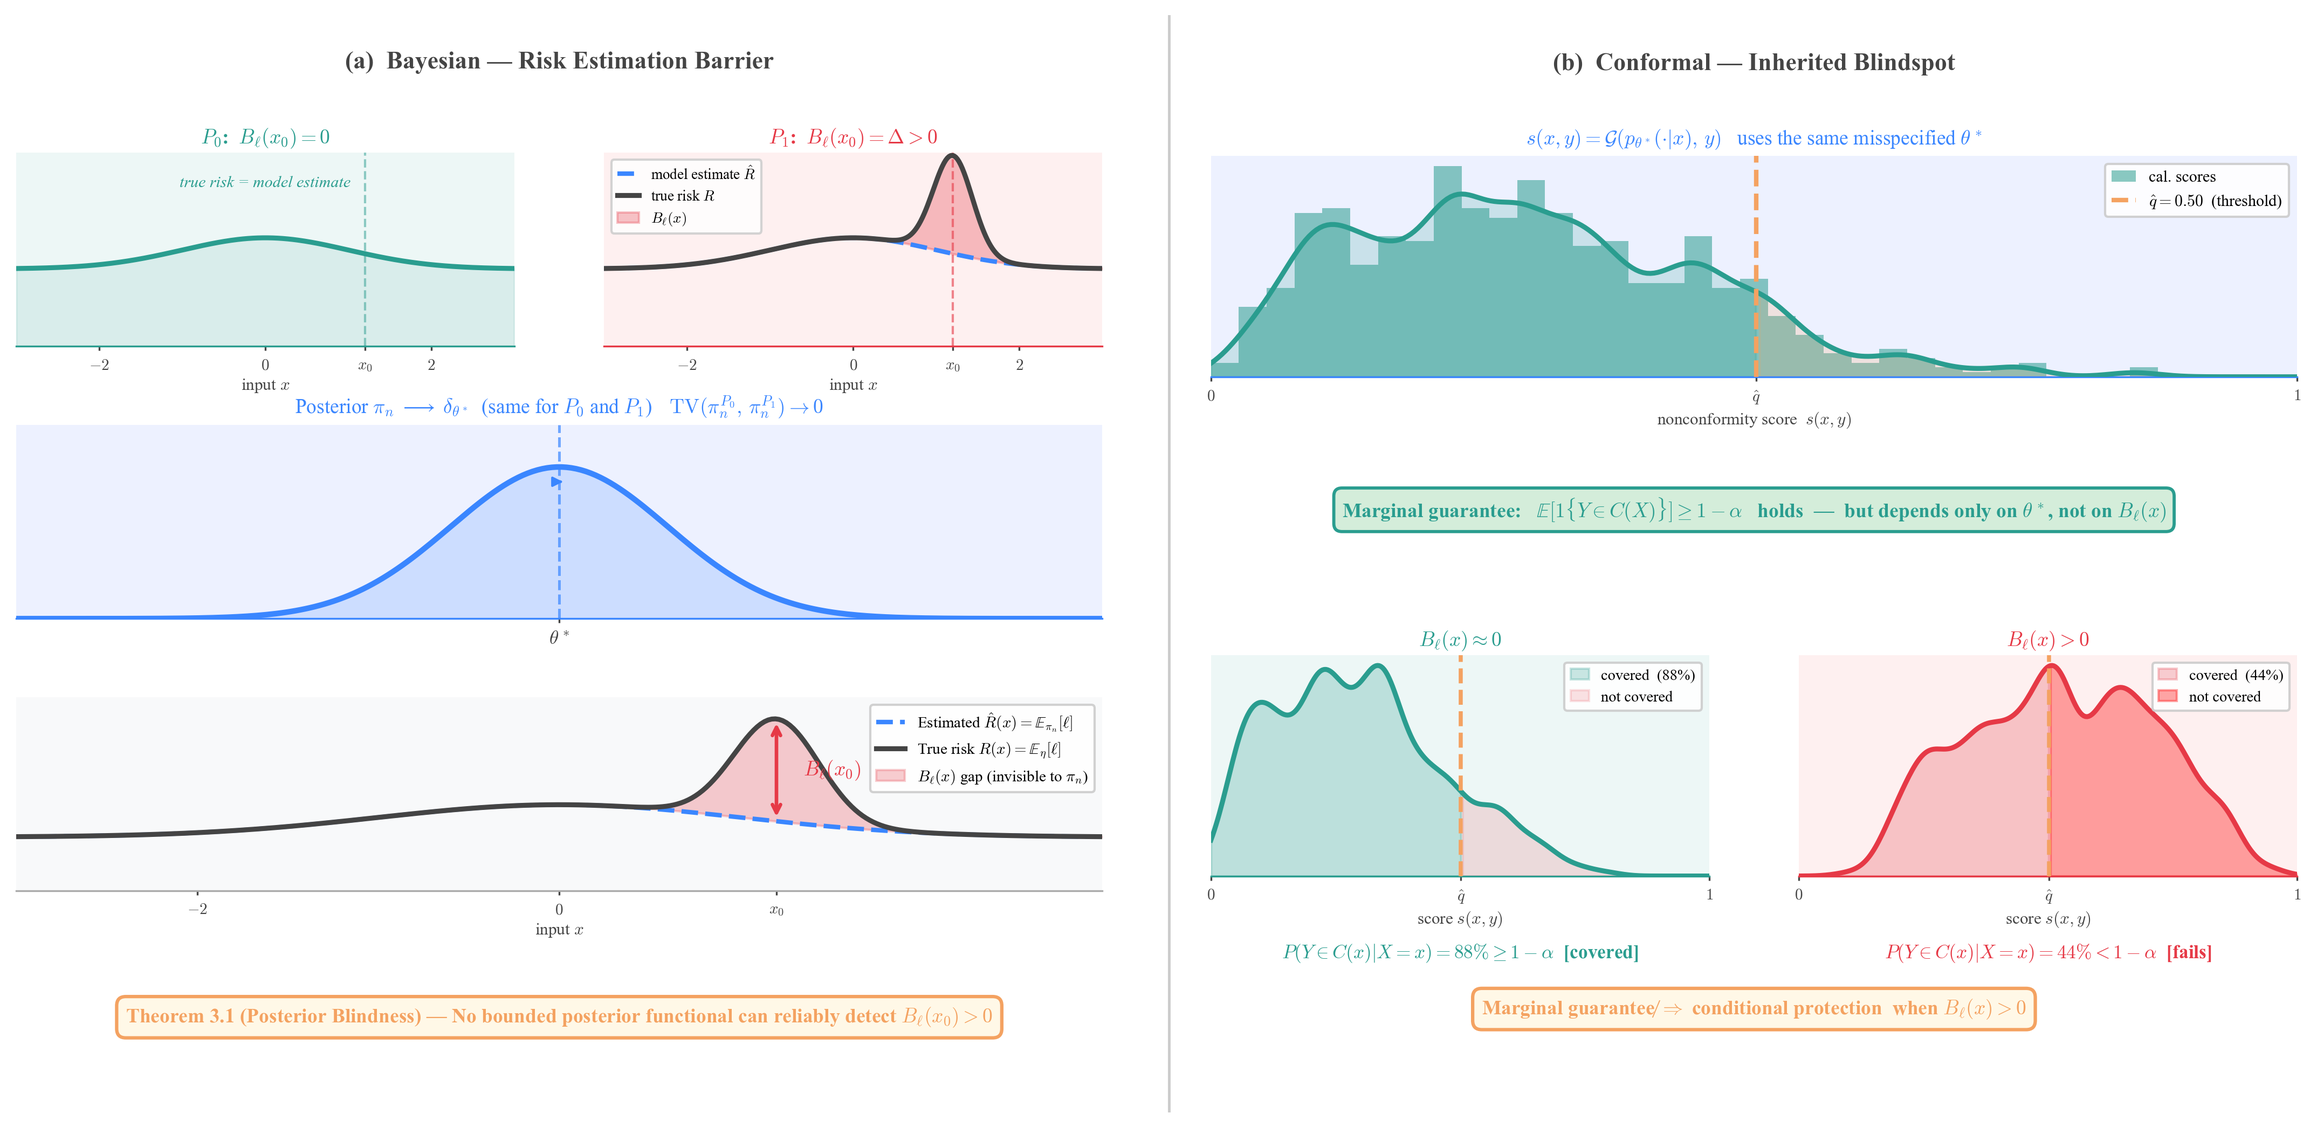
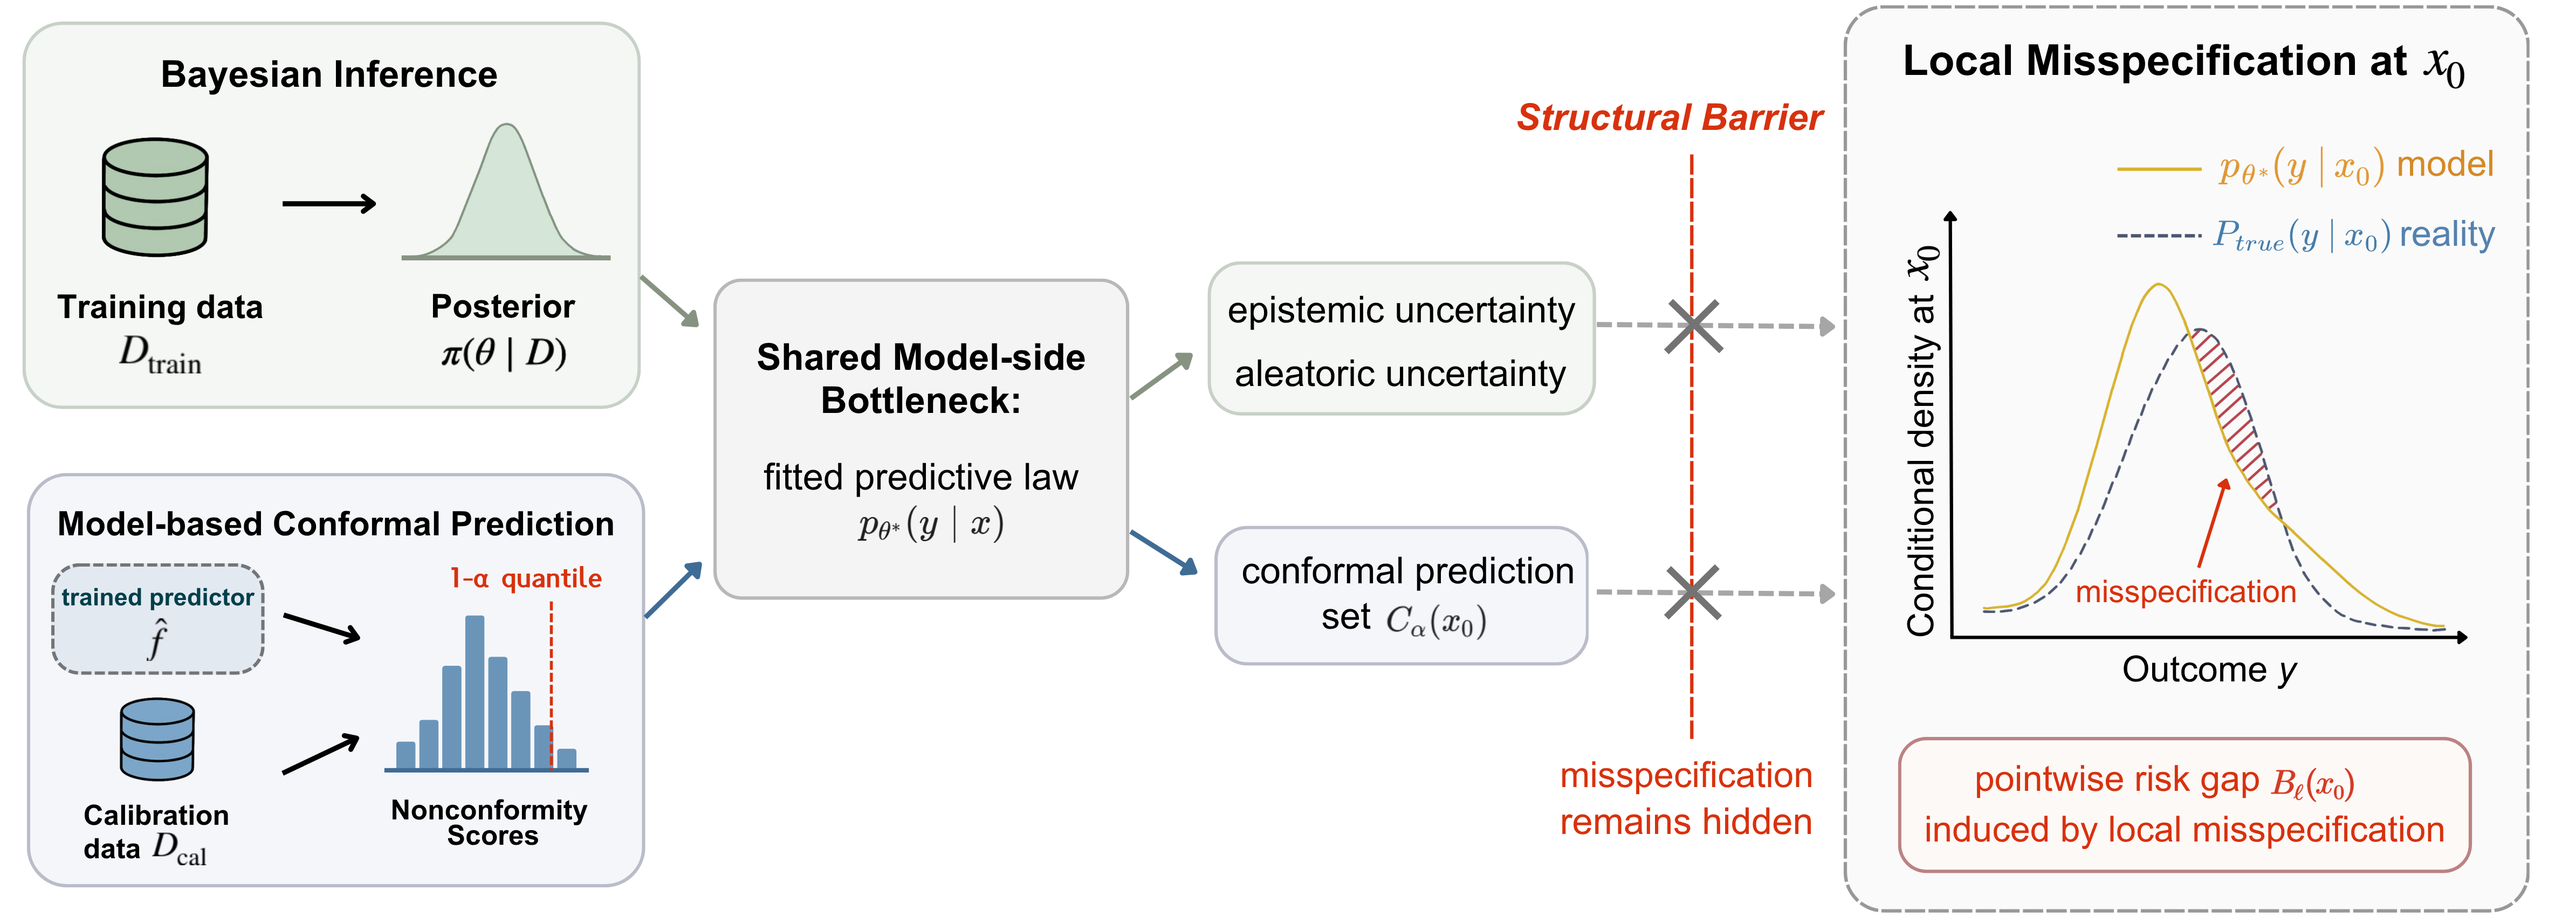
Add files via upload

diff --git a/README.md b/README.md
@@ -10,6 +10,23 @@ table maps onto a single, self-contained entry-point script under
 `core/` and the supporting model / data / inference utilities live in
 `utils/`. The LLM experiments have their own subdirectory (`llm/`).
 
+## What this thesis is about, in one picture
+
+Bayesian posterior summaries and model-based conformal prediction sets both
+depend on the same fitted predictive law $p_{\theta^*}(y \mid x)$ — so the
+pointwise risk gap $B_\ell(x_0)$ induced by local misspecification is a
+*common* blind spot of the two paradigms (Fig 1.1).
+
+![Shared structural barrier (Fig 1.1)](figures/fig1_1_structure_barrier.png)
+
+To bypass that blind spot we propose a two-stage deployment protocol
+(Fig 3.2): Stage 1 abstains on inputs with high uncertainty $U(x)$;
+Stage 2 audits the remaining confident tier with the k-NN local estimator
+$\widehat{B}_{\mathrm{local}}(x_0)$, flagging blindspots and
+insufficient-data inputs.
+
+![Two-stage deployment protocol (Fig 3.2)](figures/fig3_2_two_stage_pipeline.png)
+
 ---
 
 ## 1. Repository layout
